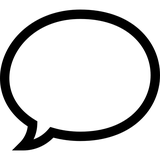
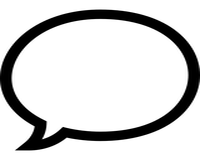
fix: Alteração do balão de fala e do método de seleção de números

diff --git a/prg03eduardonascimentosantos/src/main/java/br/com/ifba/atividade04/view/TelaAdivinhador.java b/prg03eduardonascimentosantos/src/main/java/br/com/ifba/atividade04/view/TelaAdivinhador.java
@@ -35,17 +35,17 @@ public class TelaAdivinhador extends javax.swing.JFrame {
         lblBalaoDeFala = new javax.swing.JLabel();
         lblTextoA = new javax.swing.JLabel();
         lblTextoB = new javax.swing.JLabel();
-        txtNumeroRecebido = new javax.swing.JTextField();
         btnPalpite = new javax.swing.JButton();
+        txtNumeroRecebido = new javax.swing.JSpinner();
 
         setDefaultCloseOperation(javax.swing.WindowConstants.EXIT_ON_CLOSE);
         getContentPane().setLayout(new org.netbeans.lib.awtextra.AbsoluteLayout());
 
         lblAkinatorImage.setIcon(new javax.swing.ImageIcon("/home/eduardo/Documentos/GitHub/prg03eduardonascimentosantos/prg03eduardonascimentosantos/src/main/java/br/com/ifba/atividade04/images/kindpng_4647402.png")); // NOI18N
-        getContentPane().add(lblAkinatorImage, new org.netbeans.lib.awtextra.AbsoluteConstraints(30, 60, -1, -1));
+        getContentPane().add(lblAkinatorImage, new org.netbeans.lib.awtextra.AbsoluteConstraints(30, 40, -1, -1));
 
         lblBalaoDeFala.setIcon(new javax.swing.ImageIcon("/home/eduardo/Documentos/GitHub/prg03eduardonascimentosantos/prg03eduardonascimentosantos/src/main/java/br/com/ifba/atividade04/images/balao-de-fala.png")); // NOI18N
-        getContentPane().add(lblBalaoDeFala, new org.netbeans.lib.awtextra.AbsoluteConstraints(230, 20, -1, 142));
+        getContentPane().add(lblBalaoDeFala, new org.netbeans.lib.awtextra.AbsoluteConstraints(210, 20, -1, 142));
 
         lblTextoA.setText("Escolha um numero");
         getContentPane().add(lblTextoA, new org.netbeans.lib.awtextra.AbsoluteConstraints(250, 50, -1, 60));
@@ -53,22 +53,18 @@ public class TelaAdivinhador extends javax.swing.JFrame {
         lblTextoB.setText("de 1 a 5");
         getContentPane().add(lblTextoB, new org.netbeans.lib.awtextra.AbsoluteConstraints(280, 90, -1, -1));
 
-        txtNumeroRecebido.addActionListener(this::txtNumeroRecebidoActionPerformed);
-        getContentPane().add(txtNumeroRecebido, new org.netbeans.lib.awtextra.AbsoluteConstraints(360, 180, 180, 30));
-
         btnPalpite.setText("Palpite");
         btnPalpite.addActionListener(this::btnPalpiteActionPerformed);
-        getContentPane().add(btnPalpite, new org.netbeans.lib.awtextra.AbsoluteConstraints(360, 230, 180, 50));
+        getContentPane().add(btnPalpite, new org.netbeans.lib.awtextra.AbsoluteConstraints(250, 250, 110, 50));
+
+        txtNumeroRecebido.setModel(new javax.swing.SpinnerNumberModel(1, 1, 5, 1));
+        getContentPane().add(txtNumeroRecebido, new org.netbeans.lib.awtextra.AbsoluteConstraints(250, 200, 110, 50));
 
         pack();
     }// </editor-fold>//GEN-END:initComponents
 
-    private void txtNumeroRecebidoActionPerformed(java.awt.event.ActionEvent evt) {//GEN-FIRST:event_txtNumeroRecebidoActionPerformed
-        // TODO add your handling code here:
-    }//GEN-LAST:event_txtNumeroRecebidoActionPerformed
-
     private void btnPalpiteActionPerformed(java.awt.event.ActionEvent evt) {//GEN-FIRST:event_btnPalpiteActionPerformed
-        int valorRecebido = Integer.parseInt(txtNumeroRecebido.getText());
+        int valorRecebido = Integer.parseInt(txtNumeroRecebido.getValue().toString());
         int aleatorio = (int) (Math.random() * 5) + 1; // Loop de 1 a 5
         
             if (valorRecebido > 5 || valorRecebido < 1){
@@ -116,6 +112,6 @@ public class TelaAdivinhador extends javax.swing.JFrame {
     private javax.swing.JLabel lblBalaoDeFala;
     private javax.swing.JLabel lblTextoA;
     private javax.swing.JLabel lblTextoB;
-    private javax.swing.JTextField txtNumeroRecebido;
+    private javax.swing.JSpinner txtNumeroRecebido;
     // End of variables declaration//GEN-END:variables
 }
